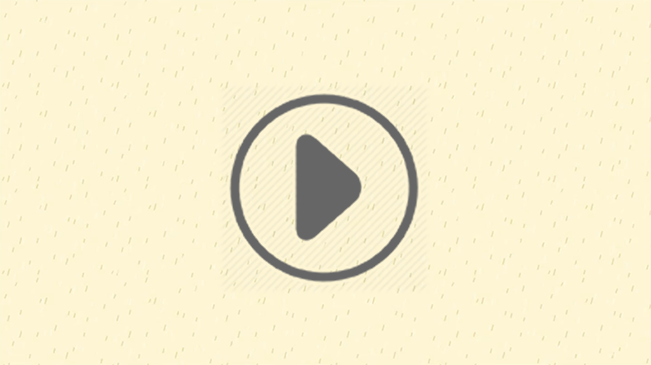
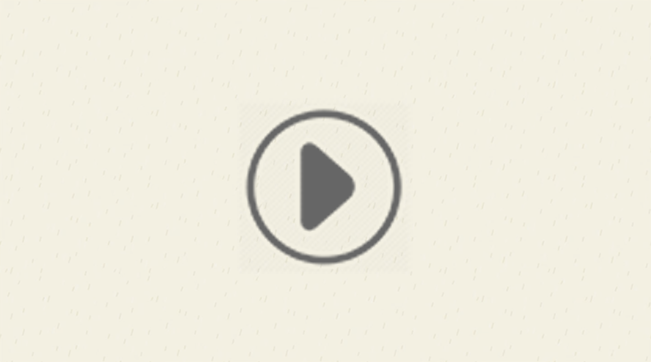
change poster img

Changed region(s): [[0.3379, 0.2431, 0.6452, 0.7901], [0.1536, 0.2127, 0.1843, 0.2431], [0.0, 0.7293, 0.0307, 0.7597]]

diff --git a/src/components/indexPage.vue b/src/components/indexPage.vue
@@ -12,14 +12,14 @@
         <a class="btn-link" @click="goAnswer"><img src="static/img/btn-finish.png" alt="解謎完成"></a>
       </div>
     </div>
-    <modal v-if="showVideo" :width="'100%'" :height="'100%'" @maskClick="showVideo = false">
+    <modal v-if="showVideo" :width="'100%'"  @maskClick="showVideo = false">
       <div slot="body" class="video" style="height: 100%;text-align:center">
         <div class="row " style="text-align: left;margin-bottom: 25px;margin-top:15px;">
           <div class="col-md-4">
             <a class=" btn-link" @click="showVideo = false"><img class="back-btn-img" src="static/img/back-index.png" alt="回首頁" style="width: 50%;"></a>
           </div>
         </div>
-        <video style="height:50%"
+        <video style="width: 73%; height: 100%"
                poster="static/img/video-poster.png"
                autoplay="true"
                controls="true"
@@ -29,7 +29,7 @@
         Your browser does not support the video tag.
         </video>
         <!-- <iframe :src="videoSrc" frameborder="0" allowfullscreen style="height: 85%"></iframe> -->
-        <div style="margin-bottom: 150px;">
+        <div style="margin-bottom: 200px;">
 
         </div>
       </div>
@@ -43,13 +43,6 @@ import Modal from './Modal/Modal'
 
 export default {
   name: 'index-page',
-  metaInfo: {
-    title: '擇日師的秘密 - The Screate of The Fortune Teller', // set a title
-    meta: [{ // set meta
-      name: 'viewport',
-      content: 'width=device-width, user-scalable=no'
-    }]
-  },
   components: {
     topBanner,
     Modal

diff --git a/src/router/index.js b/src/router/index.js
@@ -3,11 +3,9 @@ import VueResource from 'vue-resource'
 import Router from 'vue-router'
 import indexPage from '@/components/indexPage'
 import doAnswerPage from '@/components/doAnswerPage'
-import MetaInfo from 'vue-meta-info'
 // import VueGoogleCharts from 'vue-google-charts'
 
 Vue.use(Router)
-Vue.use(MetaInfo)
 Vue.use(VueResource)
 // Vue.use(VueGoogleCharts), ghpage need not use history mode
 
@@ -17,13 +15,7 @@ export default new Router({
     {
       path: '/',
       name: 'indexPage',
-      component: indexPage,
-      metaTags: [
-        {
-          name: 'viewport',
-          content: 'width=device-width, user-scalable=no'
-        }
-      ]
+      component: indexPage
     },
     {
       path: '/doanswer',

diff --git a/src/components/doAnswerPage.vue b/src/components/doAnswerPage.vue
@@ -122,7 +122,7 @@
             </a>
           </div>
         </div>
-        <video style="height:50%"
+        <video style="width: 73%;"
               poster="static/img/video-poster-end.png"
               autoplay="true"
               controls="true"
